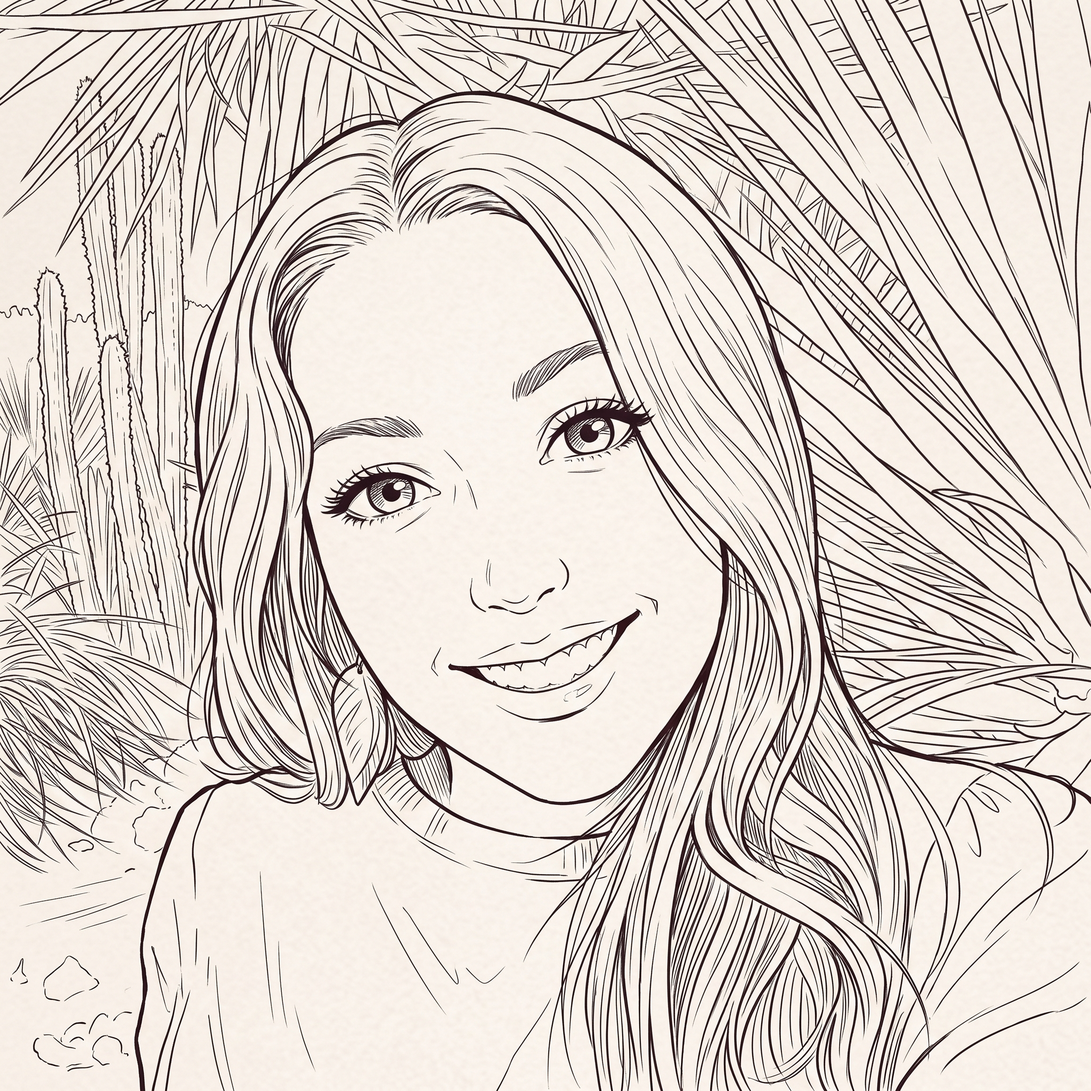
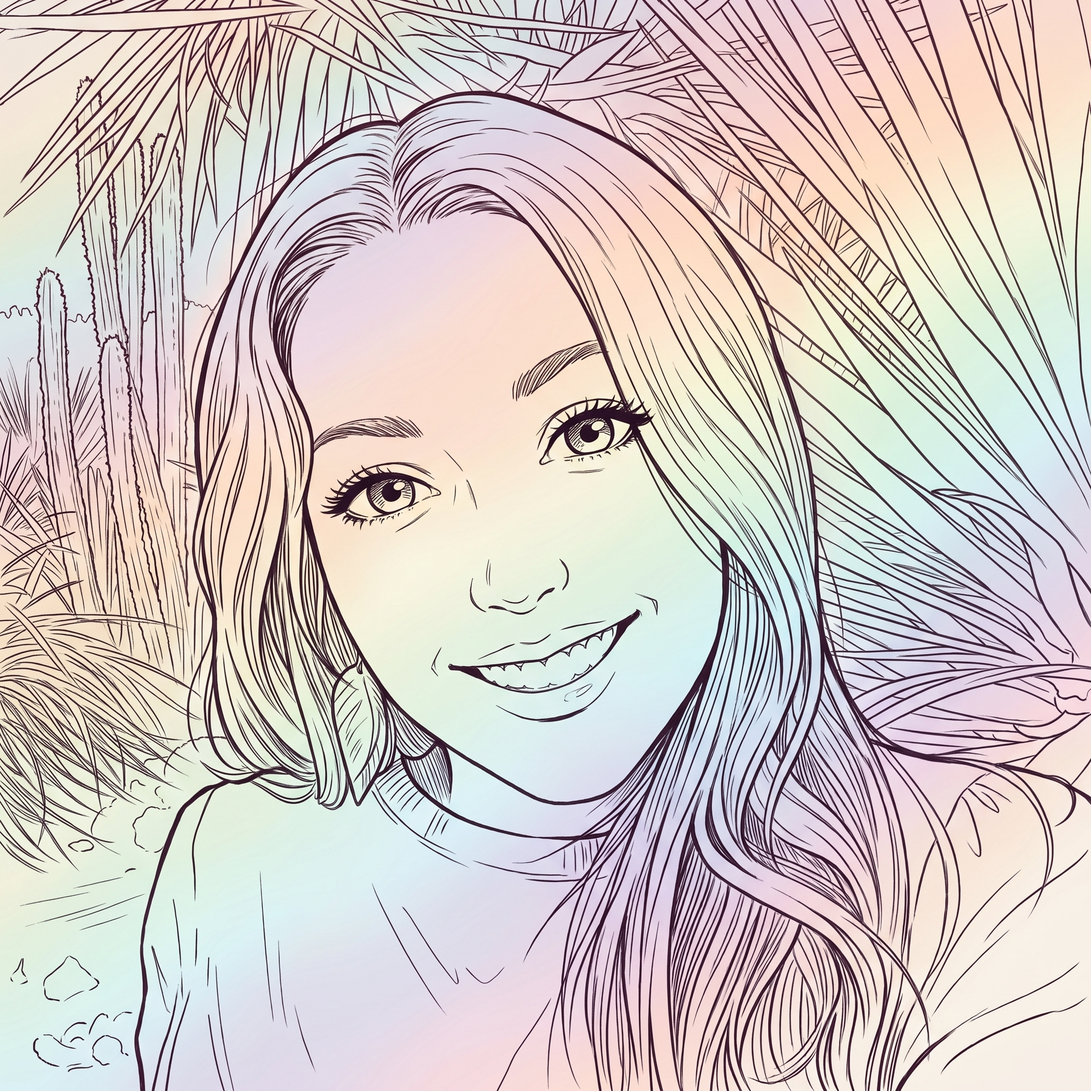
Swap for portrait rainbow image + class

diff --git a/src/styles/3-helpers/_utility.scss b/src/styles/3-helpers/_utility.scss
@@ -545,3 +545,27 @@ $spaces: (
     display: inline-flex;
   }
 }
+
+.iridescent-bg {
+  /* Soft, desaturated pastel rainbow gradient */
+  background: linear-gradient(
+    135deg,
+    rgba(255, 192, 192, 0.4) 0%,   /* Soft Peach/Red */
+    rgba(255, 222, 190, 0.45) 15%, /* Soft Orange */
+    rgba(255, 245, 200, 0.5) 30%,  /* Soft Yellow */
+    rgba(215, 245, 220, 0.5) 45%,  /* Soft Mint/Green */
+    rgba(200, 235, 255, 0.5) 60%,  /* Soft Blue */
+    rgba(220, 215, 255, 0.55) 75%, /* Soft Lavender */
+    rgba(255, 210, 245, 0.4) 100%  /* Soft Purple/Pink */
+  );
+  
+  /* Fallback for older browsers */
+  background-color: #f2f5fa; 
+  
+  /* A very subtle backdrop filter and shadow to give it a "glowing" or "glassy" effect */
+  backdrop-filter: blur(10px);
+  -webkit-backdrop-filter: blur(10px);
+  
+  /* Subtle inner glow to mimic the luminous feel */
+  box-shadow: inset 0 0 20px rgba(255, 255, 255, 0.6);
+}

diff --git a/src/app/components/hero-section/hero-section.component.html b/src/app/components/hero-section/hero-section.component.html
@@ -1,6 +1,6 @@
 <section class="container-page section-xl grid-12 hero-section">
   <div class="col-7 stack-sm hero-copy-wrap">
-    <span class="label-sm hero-kicker">PRINCIPAL UX DESIGNER · DESIGN TECHNOLOGIST · STRATEGIC LEADER</span>
+    <span class="label-sm hero-kicker ">PRINCIPAL UX DESIGNER · DESIGN TECHNOLOGIST · STRATEGIC LEADER</span>
     <h1 class="display-xl text-primary mt-md hero-title">
       Designing at the intersection of people, technology, and AI.
     </h1>

diff --git a/src/styles/1-pages/_portfolio.scss b/src/styles/1-pages/_portfolio.scss
@@ -70,7 +70,7 @@
 }
 
 .hero-portrait {
-  width: min(100%, 500px);
+  width: min(100%, 400px);
   aspect-ratio: 4 / 5;
   object-fit: cover;
   border-radius: 28px;
